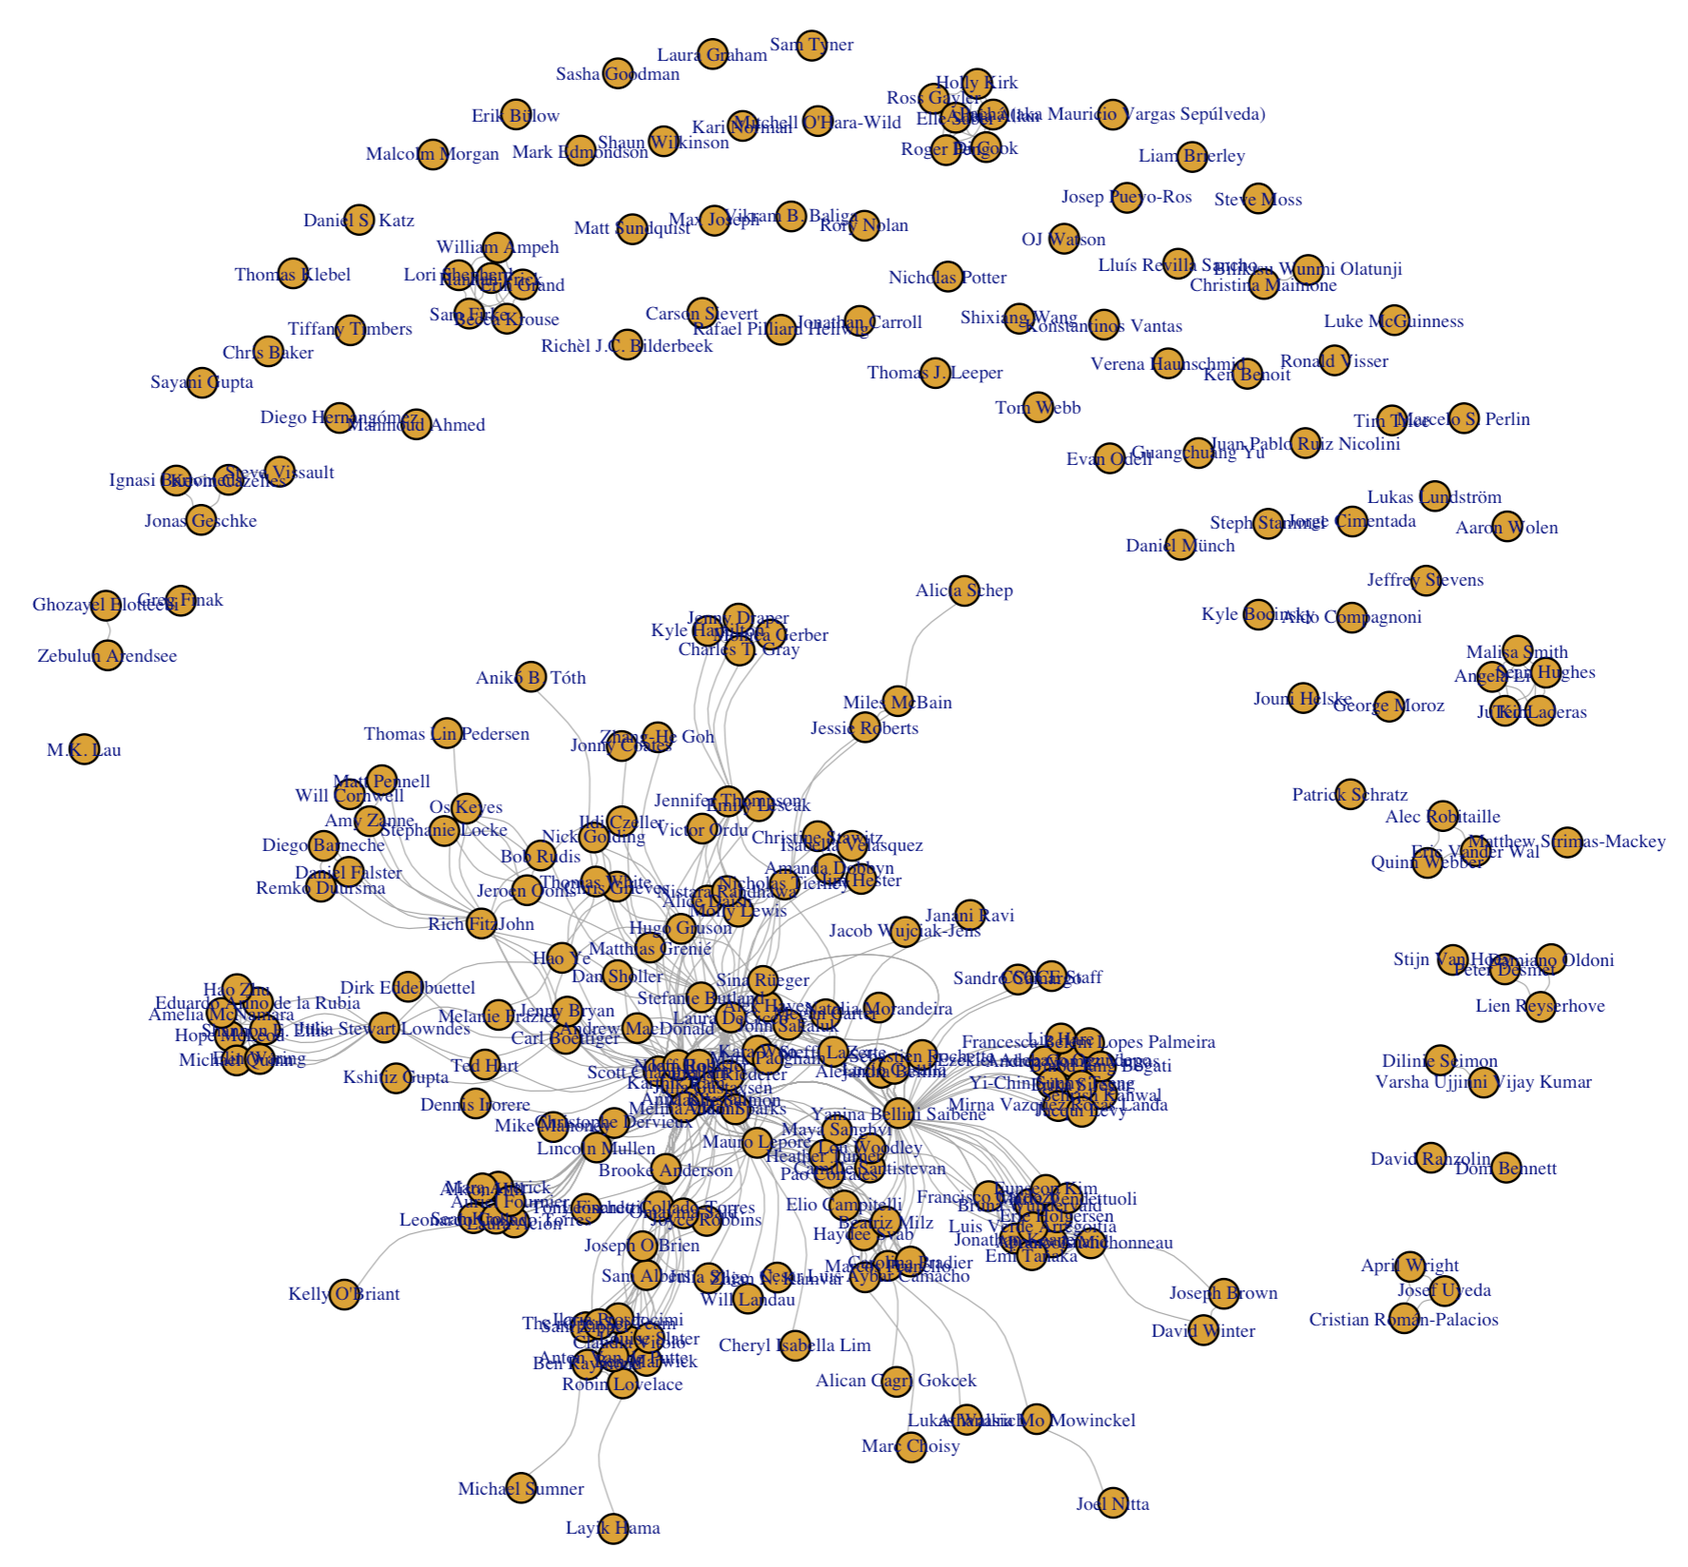
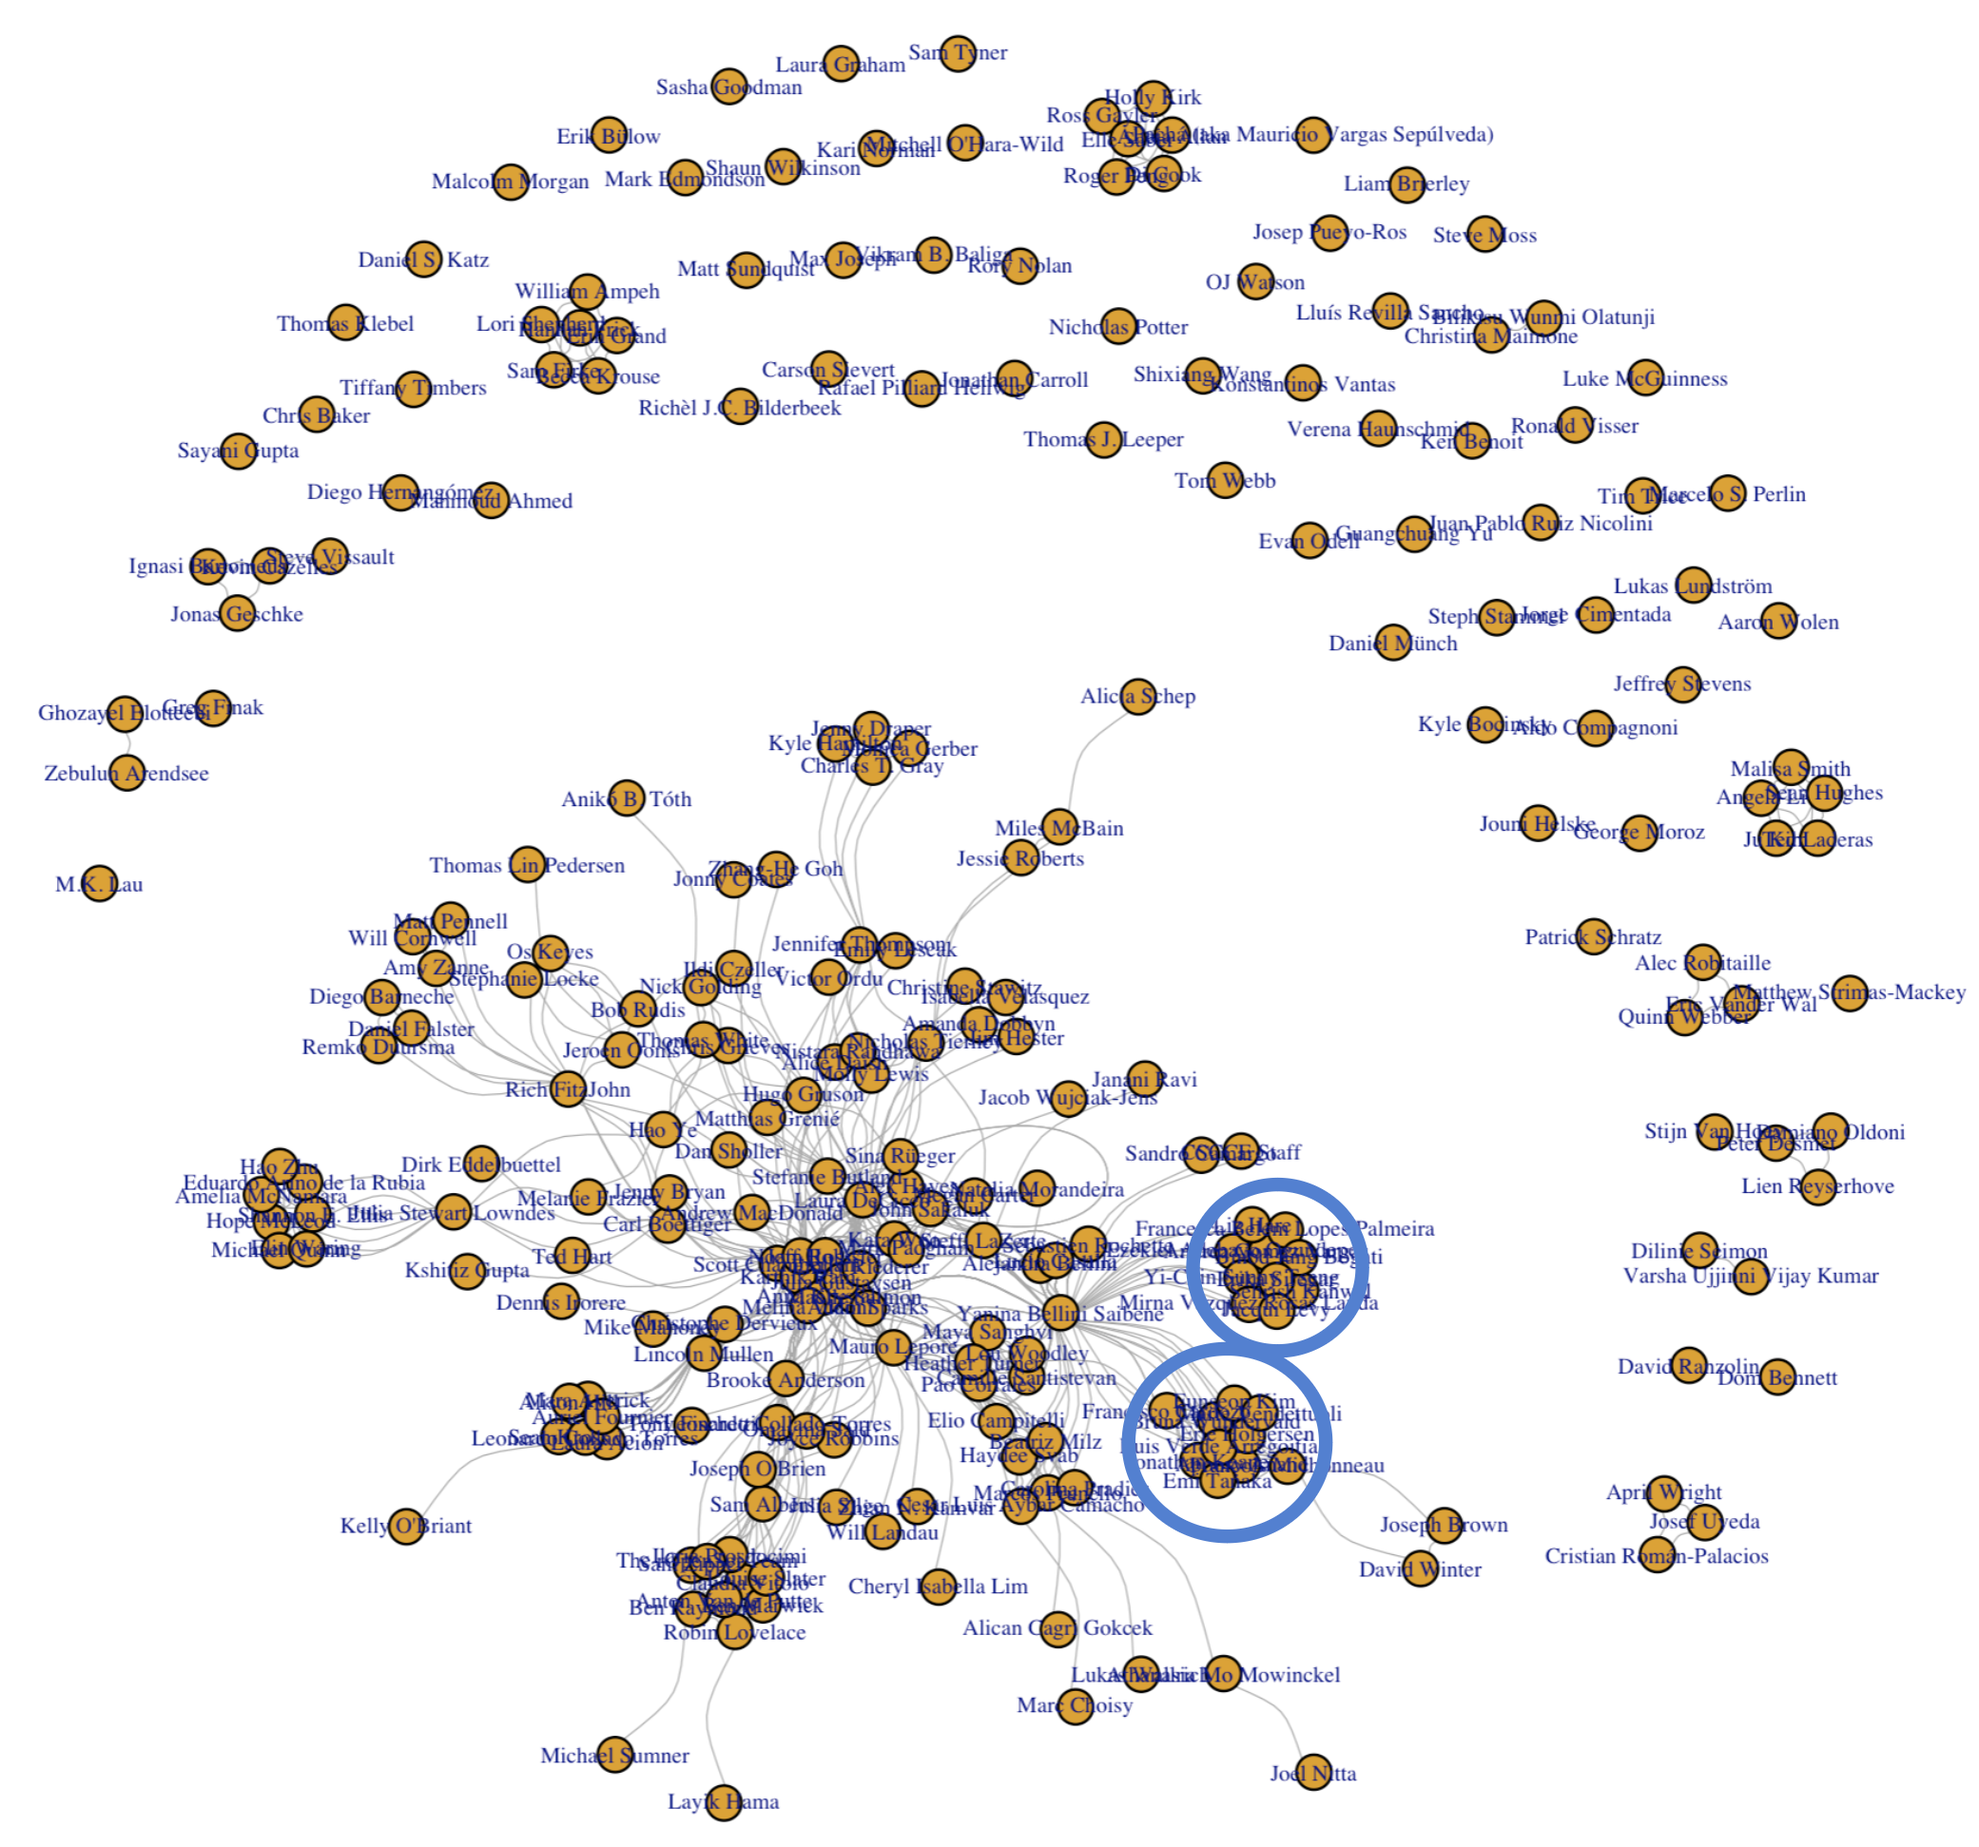
Changing pictures

diff --git a/content/blog/2024-06-25-collaboration-networks/index.en.md b/content/blog/2024-06-25-collaboration-networks/index.en.md
@@ -234,7 +234,10 @@ plot(g_blog,
 
 {{< figure src = "blog_network.png" alt = "Blog post authors network from 2014 to 2024. The network have 253 nodes and 1147 edges. Have two very differentiate parts, one with their members with high connection between them and the other with small cluster of two to six nodes, but not connected to the more dense network. It also have severals nodes without connection to any other node of the network." >}}
 
-We can see that many authors wrote blog posts without collaborators. However, we can also see that there are clusters of coauthors who have written posts together, sometimes only with a specific set of collaborators (the 'silos', clusters without a connection to the main network), and sometimes with multiple groups (acting as 'hubs' in the network). 
+We can see that many authors wrote blog posts without collaborators. However, we can also see that there are clusters of coauthors who have written posts together, sometimes only with a specific set of collaborators (the 'silos', clusters without a connection to the main network), and sometimes with multiple groups (acting as 'hubs' in the network).
+By analyzing the cluster, we can learn about the topics a series of authors are interested in, or the activities they are involved in. For example, the two clusters marked on the network map are the rOpenSci's second cohort Champions and Mentors.
+
+
 In addition to this visual assessment, we can also calculate the *number of nodes*, the *degree[^1]* of each node, the *betweenness[^2]* and the *closeness[^3]* to analyze some of the characteristics of the nodes and the network.
 
 [^1]: The number of connections to other nodes
